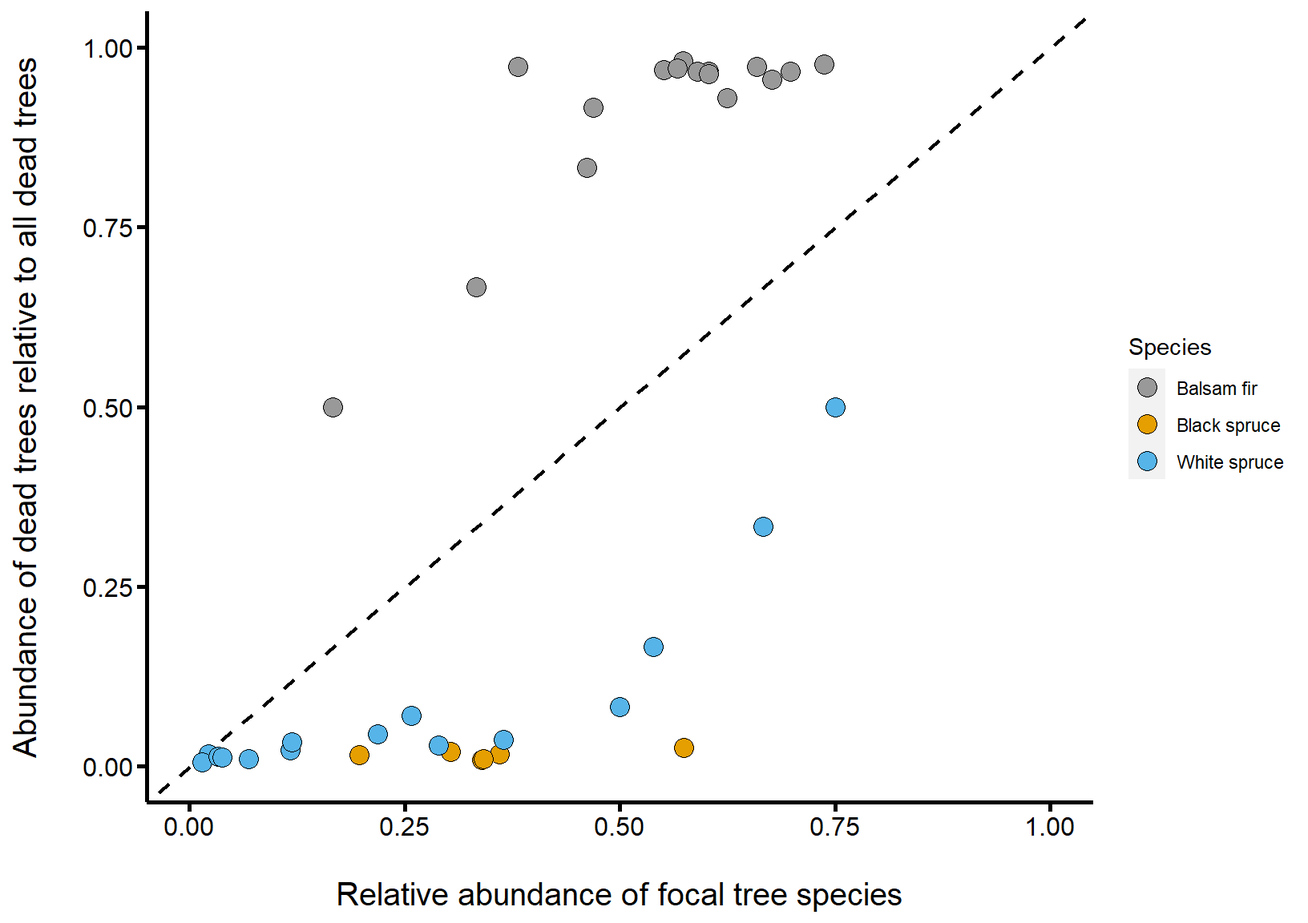
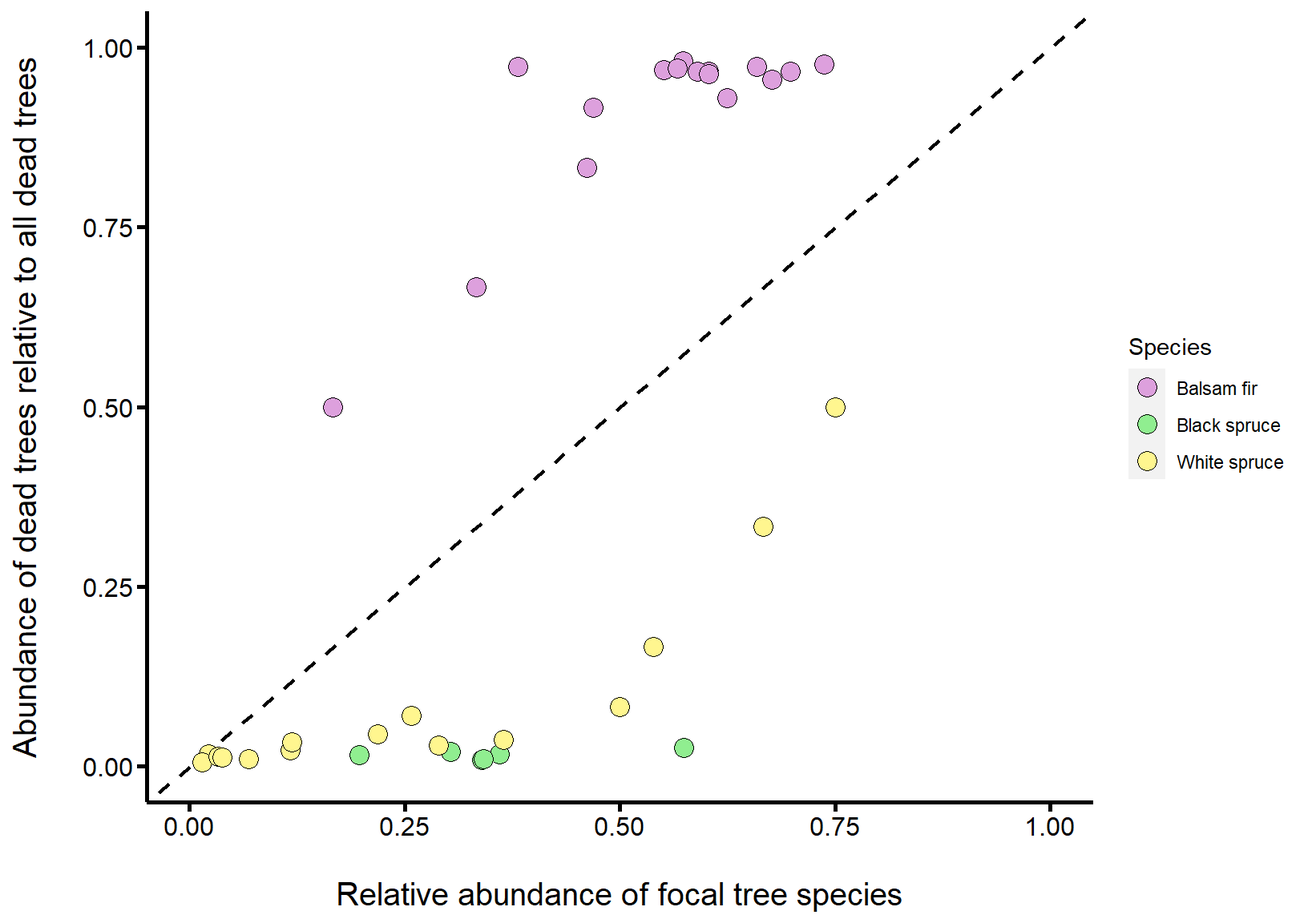
Finalize figures

diff --git a/tutorial/Anticosti_CommunityEco_Tutorial_v5.html b/tutorial/Anticosti_CommunityEco_Tutorial_v5.html
@@ -404,42 +404,59 @@ Example of a specialist and generalist species
 <h2>Tutorial objective 3</h2>
 <div id="section-is-there-a-relationship-between-the-abundance-of-tree-species-and-the-ones-the-hemlock-looper-attacks" class="section level3">
 <h3>Is there a relationship between the abundance of tree species and the ones the hemlock looper attacks?</h3>
-<div id="section-this-question-asks-us-to-consider-the-role-of-relative-abundance-in-pest-prevalence.-below-is-a-drawing-to-convey-this-idea" class="section level4">
-<h4>This question asks us to consider the role of relative abundance in pest prevalence. Below is a drawing to convey this idea</h4>
+<div id="section-this-question-asks-us-to-consider-the-role-of-relative-abundance-in-pest-prevalence.-below-is-a-comic-to-convey-this-idea" class="section level4">
+<h4>This question asks us to consider the role of relative abundance in pest prevalence. Below is a comic to convey this idea</h4>
 </div>
-<div id="section-imagine-you-are-a-hemlock-looper-about-to-lay-its-eggs.-wouldnt-it-be-most-convenient-to-lay-them-on-the-first-tree-you-find-in-this-case-the-more-abundant-a-tree-is-the-more-likely-it-is-to-be-predated-upon.-conversely-perhaps-the-looper-prefers-a-particular-tree-species-because-it-has-more-tender-leaves.-in-this-case-even-if-this-species-was-more-rare-in-the-forest-we-would-notice-it-has-more-hemlock-looper-damage-than-we-would-expect-based-on-its-relative-abundance." class="section level4">
-<h4>Imagine you are a hemlock looper about to lay its eggs. Wouldn’t it be most convenient to lay them on the first tree you find? In this case, the more abundant a tree is, the more likely it is to be predated upon. Conversely, perhaps the looper prefers a particular tree species because it has more tender leaves. In this case, even if this species was more rare in the forest, we would notice it has more hemlock looper damage than we would expect based on its relative abundance.</h4>
+<div id="section-imagine-you-are-a-hemlock-looper-about-to-lay-its-eggs.-wouldnt-it-be-most-convenient-to-lay-them-on-the-first-tree-you-find-in-this-case-the-more-abundant-a-tree-is-the-more-likely-it-is-to-be-predated-upon." class="section level4">
+<h4>Imagine you are a hemlock looper about to lay its eggs. Wouldn’t it be most convenient to lay them on the first tree you find? In this case, the more abundant a tree is, the more likely it is to be predated upon.</h4>
+</div>
+<div id="section-alternatively-perhaps-hemlock-loopers-prefer-a-particular-tree-species-because-it-has-more-tender-leaves.-in-this-case-even-if-this-species-was-more-rare-in-the-forest-we-would-notice-it-has-more-hemlock-looper-damage-than-we-would-expect-based-on-its-relative-abundance." class="section level4">
+<h4>Alternatively, perhaps hemlock loopers prefer a particular tree species because it has more tender leaves. In this case, even if this species was more rare in the forest, we would notice it has more hemlock looper damage than we would expect based on its relative abundance.</h4>
 <div class="figure" style="text-align: center">
 <img src="images/specialist_generalists.png" alt="Comic on the role of relative abundance and pest prevalence, by Victoria Marie Glynn" width="70%" />
 <p class="caption">
 Comic on the role of relative abundance and pest prevalence, by Victoria Marie Glynn
 </p>
 </div>
+<p><br></p>
 </div>
-<div id="section-we-thus-need-to-consider-the-relative-proportion-of-a-given-tree-species-as-it-relates-to-the-relative-proportion-of-trees-that-were-denoted-as-dead." class="section level4">
-<h4>We thus need to consider the <strong>relative proportion</strong> of a given tree species, as it relates to the relative proportion of trees that were denoted as “dead.”</h4>
+<div id="section-we-thus-need-to-consider-the-relative-proportion-of-a-given-tree-species-our-x-axis-or-independent-variable-as-it-relates-to-the-relative-proportion-of-trees-that-were-denoted-as-dead-our-y-axis-or-dependent-variable-which-is-proxy-for-predation-pressure." class="section level4">
+<h4>We thus need to consider the <strong>relative proportion</strong> of a given tree species, our x-axis or independent variable, as it relates to the relative proportion of trees that were denoted as “dead,” our y-axis or dependent variable, which is proxy for predation pressure.</h4>
+<p><br></p>
 </div>
 <div id="section-with-this-in-mind-we-can-create-the-following-schematic-to-predict-three-possible-scenarios" class="section level4">
 <h4>With this in mind, we can create the following schematic to predict three possible scenarios:</h4>
+<div class="figure" style="text-align: center">
+<img src="images/rel_abund.jpg" alt="Three possible scenarios regarding the hemlock loopers' predation behavior" width="70%" />
+<p class="caption">
+Three possible scenarios regarding the hemlock loopers’ predation behavior
+</p>
+</div>
+<p><br></p>
 </div>
 <div id="section-the-hemlock-looper-has-no-preference-on-what-tree-it-predates-upon-it-is-a-generalist-pest-species." class="section level4">
 <h4>(1) The hemlock looper has no preference on what tree it predates upon – it is a <strong>generalist</strong> pest species.</h4>
+<div id="section-we-would-see-this-on-our-graph-as-a-one-to-one-relationship-diagonal-black-line-where-a-tree-species-abundance-in-the-forest-is-directly-proportional-to-the-number-of-trees-from-that-species-denoted-as-dead." class="section level5">
+<h5>→ We would see this on our graph as a <strong>one-to-one relationship</strong> (diagonal black line), where a tree species’ abundance in the forest is directly proportional to the number of trees from that species denoted as “dead.”</h5>
+</div>
 </div>
 <div id="section-the-hemlock-looper-prefers-to-predate-upon-some-species-versus-others-it-is-a-specialist-pest-species." class="section level4">
 <h4>(2) The hemlock looper prefers to predate upon some species versus others – it is a <strong>specialist</strong> pest species.</h4>
+<div id="section-we-would-see-this-on-our-graph-if-a-species-points-lie-above-the-one-to-one-line-orange-triangle-as-this-means-that-more-individuals-of-a-given-tree-species-are-denoted-as-dead-relative-to-their-relative-abundance-in-the-forest." class="section level5">
+<h5>→ We would see this on our graph if a species’ points lie <strong>above the one-to-one line</strong> (orange triangle), as this means that more individuals of a given tree species are denoted as “dead” relative to their relative abundance in the forest.</h5>
+</div>
 </div>
 <div id="section-the-hemlock-looper-avoids-some-species-and-thus-these-are-less-predated-upon-it-is-a-specialist-pest-species." class="section level4">
 <h4>(3) The hemlock looper avoids some species, and thus these are less predated upon – it is a <strong>specialist</strong> pest species.</h4>
-<div class="figure" style="text-align: center">
-<img src="images/rel_abund.jpg" alt="Comic on the role of relative abundance and pest prevalence, by Victoria Marie Glynn" width="70%" />
-<p class="caption">
-Comic on the role of relative abundance and pest prevalence, by Victoria Marie Glynn
-</p>
+<div id="section-we-would-see-this-on-our-graph-if-a-species-points-lie-below-the-one-to-one-line-blue-triangle-as-this-means-that-less-individuals-of-a-given-tree-species-are-denoted-as-dead-relative-to-their-relative-abundance-in-the-forest." class="section level5">
+<h5>→ We would see this on our graph if a species’ points lie <strong>below the one-to-one line</strong> (blue triangle), as this means that less individuals of a given tree species are denoted as “dead” relative to their relative abundance in the forest.</h5>
+<p><br></p>
 </div>
 </div>
 </div>
 <div id="section-lets-plot-our-actual-data-and-see-where-the-results-lie-in-relationship-to-our-guiding-schematic-above." class="section level3">
 <h3>Let’s plot our actual data and see where the results lie, in relationship to our guiding schematic above.</h3>
+<p><br></p>
 <p>We’ll start by filtering out the “Questionable” tree status to answer our question, and calculate the total abundance of species by cell, either dead or alive. With this, we’ll be able to calculate the abundance of a focal specie relative to the abundance of all species within a cell.</p>
 <pre class="r"><code># Filter out &quot;Questionable individuals&quot;
 tree_filter &lt;- tree[Condition != &quot;Questionable&quot;,
@@ -482,7 +499,7 @@ tree_filter &lt;- tree_filter[unique_dead != 1]</code></pre>
              shape = 21,
              aes(fill = Species)) +
   scale_colour_manual(values = c(&quot;black&quot;,&quot;black&quot;, &quot;black&quot;)) +
-  scale_fill_manual(values = c(&quot;#999999&quot;,&quot;#E69F00&quot;, &quot;#56B4E9&quot;)) +
+  scale_fill_manual(values = c(&quot;plum&quot;, &quot;light green&quot;, &quot;khaki1&quot;)) +
   ylab(&quot;Abundance of dead trees relative to all dead trees\n&quot;) +
   xlab(&quot;\nRelative abundance of focal tree species&quot;) +
   scale_y_continuous(breaks = seq(0, 1, .25),
@@ -561,31 +578,31 @@ session$onSessionEnded(function() {
  
 <script type="application/shiny-prerendered" data-context="server">
 learnr:::question_prerendered_chunk(structure(list(type = "learnr_radio", label = "checkbox-a", question = structure("What tree species is the <strong>MOST<\u002fstrong> abundant in the data?", html = TRUE, class = c("html", 
-"character")), answers = list(structure(list(id = "lnr_ans_a7df889", 
+"character")), answers = list(structure(list(id = "lnr_ans_32a542", 
     option = "White birch (BOP) - *Betula papyrifera*", value = "White birch (BOP) - *Betula papyrifera*", 
     label = structure("White birch (BOP) - <em>Betula papyrifera<\u002fem>", html = TRUE, class = c("html", 
     "character")), correct = FALSE, message = NULL, type = "literal"), class = c("tutorial_question_answer", 
-"tutorial_quiz_answer")), structure(list(id = "lnr_ans_67b1f20", 
+"tutorial_quiz_answer")), structure(list(id = "lnr_ans_7c06665", 
     option = "White spruce (EPB) - *Picea glauca*", value = "White spruce (EPB) - *Picea glauca*", 
     label = structure("White spruce (EPB) - <em>Picea glauca<\u002fem>", html = TRUE, class = c("html", 
     "character")), correct = FALSE, message = NULL, type = "literal"), class = c("tutorial_question_answer", 
-"tutorial_quiz_answer")), structure(list(id = "lnr_ans_9bce18b", 
+"tutorial_quiz_answer")), structure(list(id = "lnr_ans_9a90333", 
     option = "Black spruce (EPN) - *Picea mariana*", value = "Black spruce (EPN) - *Picea mariana*", 
     label = structure("Black spruce (EPN) - <em>Picea mariana<\u002fem>", html = TRUE, class = c("html", 
     "character")), correct = FALSE, message = NULL, type = "literal"), class = c("tutorial_question_answer", 
-"tutorial_quiz_answer")), structure(list(id = "lnr_ans_e09bd4b", 
+"tutorial_quiz_answer")), structure(list(id = "lnr_ans_7dc0afe", 
     option = "American Larch (Meleze) - *Larix laricina*", value = "American Larch (Meleze) - *Larix laricina*", 
     label = structure("American Larch (Meleze) - <em>Larix laricina<\u002fem>", html = TRUE, class = c("html", 
     "character")), correct = FALSE, message = NULL, type = "literal"), class = c("tutorial_question_answer", 
-"tutorial_quiz_answer")), structure(list(id = "lnr_ans_4ee1f6e", 
+"tutorial_quiz_answer")), structure(list(id = "lnr_ans_3a548d3", 
     option = "Aspen (Peuplier) - *Populus* spp.", value = "Aspen (Peuplier) - *Populus* spp.", 
     label = structure("Aspen (Peuplier) - <em>Populus<\u002fem> spp.", html = TRUE, class = c("html", 
     "character")), correct = FALSE, message = NULL, type = "literal"), class = c("tutorial_question_answer", 
-"tutorial_quiz_answer")), structure(list(id = "lnr_ans_9708616", 
+"tutorial_quiz_answer")), structure(list(id = "lnr_ans_64621a4", 
     option = "Pine (Pin) - *Pinus* spp.", value = "Pine (Pin) - *Pinus* spp.", 
     label = structure("Pine (Pin) - <em>Pinus<\u002fem> spp.", html = TRUE, class = c("html", 
     "character")), correct = FALSE, message = NULL, type = "literal"), class = c("tutorial_question_answer", 
-"tutorial_quiz_answer")), structure(list(id = "lnr_ans_9a65cfb", 
+"tutorial_quiz_answer")), structure(list(id = "lnr_ans_15e88e2", 
     option = "Balsam fir (SAB) - *Abies balsamea*", value = "Balsam fir (SAB) - *Abies balsamea*", 
     label = structure("Balsam fir (SAB) - <em>Abies balsamea<\u002fem>", html = TRUE, class = c("html", 
     "character")), correct = TRUE, message = NULL, type = "literal"), class = c("tutorial_question_answer", 
@@ -597,37 +614,37 @@ learnr:::question_prerendered_chunk(structure(list(type = "learnr_radio", label 
 "character")), message = NULL, post_message = NULL), ids = list(
     answer = "checkbox-a-answer", question = "checkbox-a"), loading = structure("<strong>Loading:<\u002fstrong> \nWhat tree species is the <strong>MOST<\u002fstrong> abundant in the data?\n<br/><br/><br/>", html = TRUE, class = c("html", 
 "character")), random_answer_order = FALSE, allow_retry = FALSE, 
-    seed = 924253993.569611, options = list()), class = c("learnr_radio", 
+    seed = 612804113.714641, options = list()), class = c("learnr_radio", 
 "tutorial_question")), session = session)
 </script>
  
 <script type="application/shiny-prerendered" data-context="server">
 learnr:::question_prerendered_chunk(structure(list(type = "learnr_radio", label = "checkbox-b", question = structure("What tree species is the <strong>LEAST<\u002fstrong> abundant in the data?", html = TRUE, class = c("html", 
-"character")), answers = list(structure(list(id = "lnr_ans_c3569b5", 
+"character")), answers = list(structure(list(id = "lnr_ans_c28bc6c", 
     option = "White birch (BOP) - *Betula papyrifera*", value = "White birch (BOP) - *Betula papyrifera*", 
     label = structure("White birch (BOP) - <em>Betula papyrifera<\u002fem>", html = TRUE, class = c("html", 
     "character")), correct = FALSE, message = NULL, type = "literal"), class = c("tutorial_question_answer", 
-"tutorial_quiz_answer")), structure(list(id = "lnr_ans_35a3a16", 
+"tutorial_quiz_answer")), structure(list(id = "lnr_ans_424301f", 
     option = "White spruce (EPB) - *Picea glauca*", value = "White spruce (EPB) - *Picea glauca*", 
     label = structure("White spruce (EPB) - <em>Picea glauca<\u002fem>", html = TRUE, class = c("html", 
     "character")), correct = FALSE, message = NULL, type = "literal"), class = c("tutorial_question_answer", 
-"tutorial_quiz_answer")), structure(list(id = "lnr_ans_42321c2", 
+"tutorial_quiz_answer")), structure(list(id = "lnr_ans_34624db", 
     option = "Black spruce (EPN) - *Picea mariana*", value = "Black spruce (EPN) - *Picea mariana*", 
     label = structure("Black spruce (EPN) - <em>Picea mariana<\u002fem>", html = TRUE, class = c("html", 
     "character")), correct = FALSE, message = NULL, type = "literal"), class = c("tutorial_question_answer", 
-"tutorial_quiz_answer")), structure(list(id = "lnr_ans_2c9e760", 
+"tutorial_quiz_answer")), structure(list(id = "lnr_ans_e45a1b7", 
     option = "American Larch (Meleze) - *Larix laricina*", value = "American Larch (Meleze) - *Larix laricina*", 
     label = structure("American Larch (Meleze) - <em>Larix laricina<\u002fem>", html = TRUE, class = c("html", 
     "character")), correct = TRUE, message = NULL, type = "literal"), class = c("tutorial_question_answer", 
-"tutorial_quiz_answer")), structure(list(id = "lnr_ans_646409d", 
+"tutorial_quiz_answer")), structure(list(id = "lnr_ans_a91b6e0", 
     option = "Aspen (Peuplier) - *Populus* spp.", value = "Aspen (Peuplier) - *Populus* spp.", 
     label = structure("Aspen (Peuplier) - <em>Populus<\u002fem> spp.", html = TRUE, class = c("html", 
     "character")), correct = FALSE, message = NULL, type = "literal"), class = c("tutorial_question_answer", 
-"tutorial_quiz_answer")), structure(list(id = "lnr_ans_be2c7e2", 
+"tutorial_quiz_answer")), structure(list(id = "lnr_ans_26176a7", 
     option = "Pine (Pin) - *Pinus* spp.", value = "Pine (Pin) - *Pinus* spp.", 
     label = structure("Pine (Pin) - <em>Pinus<\u002fem> spp.", html = TRUE, class = c("html", 
     "character")), correct = FALSE, message = NULL, type = "literal"), class = c("tutorial_question_answer", 
-"tutorial_quiz_answer")), structure(list(id = "lnr_ans_e5671e7", 
+"tutorial_quiz_answer")), structure(list(id = "lnr_ans_c519680", 
     option = "Balsam fir (SAB) - *Abies balsamea*", value = "Balsam fir (SAB) - *Abies balsamea*", 
     label = structure("Balsam fir (SAB) - <em>Abies balsamea<\u002fem>", html = TRUE, class = c("html", 
     "character")), correct = FALSE, message = NULL, type = "literal"), class = c("tutorial_question_answer", 
@@ -639,37 +656,37 @@ learnr:::question_prerendered_chunk(structure(list(type = "learnr_radio", label 
 "character")), message = NULL, post_message = NULL), ids = list(
     answer = "checkbox-b-answer", question = "checkbox-b"), loading = structure("<strong>Loading:<\u002fstrong> \nWhat tree species is the <strong>LEAST<\u002fstrong> abundant in the data?\n<br/><br/><br/>", html = TRUE, class = c("html", 
 "character")), random_answer_order = FALSE, allow_retry = FALSE, 
-    seed = 1272805926.9073, options = list()), class = c("learnr_radio", 
+    seed = 372446746.826566, options = list()), class = c("learnr_radio", 
 "tutorial_question")), session = session)
 </script>
  
 <script type="application/shiny-prerendered" data-context="server">
 learnr:::question_prerendered_chunk(structure(list(type = "learnr_radio", label = "checkbox-c", question = structure("What tree species was <strong>MOST<\u002fstrong> affected by the hemlock looper? Select all that apply.", html = TRUE, class = c("html", 
-"character")), answers = list(structure(list(id = "lnr_ans_55ed505", 
+"character")), answers = list(structure(list(id = "lnr_ans_72ade62", 
     option = "White birch (BOP) - *Betula papyrifera*", value = "White birch (BOP) - *Betula papyrifera*", 
     label = structure("White birch (BOP) - <em>Betula papyrifera<\u002fem>", html = TRUE, class = c("html", 
     "character")), correct = FALSE, message = NULL, type = "literal"), class = c("tutorial_question_answer", 
-"tutorial_quiz_answer")), structure(list(id = "lnr_ans_a329c00", 
+"tutorial_quiz_answer")), structure(list(id = "lnr_ans_cdb2f39", 
     option = "White spruce (EPB) - *Picea glauca*", value = "White spruce (EPB) - *Picea glauca*", 
     label = structure("White spruce (EPB) - <em>Picea glauca<\u002fem>", html = TRUE, class = c("html", 
     "character")), correct = FALSE, message = NULL, type = "literal"), class = c("tutorial_question_answer", 
-"tutorial_quiz_answer")), structure(list(id = "lnr_ans_e139bbc", 
+"tutorial_quiz_answer")), structure(list(id = "lnr_ans_1bc437b", 
     option = "Black spruce (EPN) - *Picea mariana*", value = "Black spruce (EPN) - *Picea mariana*", 
     label = structure("Black spruce (EPN) - <em>Picea mariana<\u002fem>", html = TRUE, class = c("html", 
     "character")), correct = FALSE, message = NULL, type = "literal"), class = c("tutorial_question_answer", 
-"tutorial_quiz_answer")), structure(list(id = "lnr_ans_447ecbf", 
+"tutorial_quiz_answer")), structure(list(id = "lnr_ans_bfc53d5", 
     option = "Larch (Meleze) - *Larix* spp.", value = "Larch (Meleze) - *Larix* spp.", 
     label = structure("Larch (Meleze) - <em>Larix<\u002fem> spp.", html = TRUE, class = c("html", 
     "character")), correct = FALSE, message = NULL, type = "literal"), class = c("tutorial_question_answer", 
-"tutorial_quiz_answer")), structure(list(id = "lnr_ans_6502f10", 
+"tutorial_quiz_answer")), structure(list(id = "lnr_ans_7e24e78", 
     option = "Aspen (Peuplier) - *Populus* spp.", value = "Aspen (Peuplier) - *Populus* spp.", 
     label = structure("Aspen (Peuplier) - <em>Populus<\u002fem> spp.", html = TRUE, class = c("html", 
     "character")), correct = FALSE, message = NULL, type = "literal"), class = c("tutorial_question_answer", 
-"tutorial_quiz_answer")), structure(list(id = "lnr_ans_d5b5e97", 
+"tutorial_quiz_answer")), structure(list(id = "lnr_ans_bdbc282", 
     option = "Pine (Pin) - *Pinus* spp.", value = "Pine (Pin) - *Pinus* spp.", 
     label = structure("Pine (Pin) - <em>Pinus<\u002fem> spp.", html = TRUE, class = c("html", 
     "character")), correct = FALSE, message = NULL, type = "literal"), class = c("tutorial_question_answer", 
-"tutorial_quiz_answer")), structure(list(id = "lnr_ans_ff539e3", 
+"tutorial_quiz_answer")), structure(list(id = "lnr_ans_945a260", 
     option = "Balsam fir (SAB) - *Abies balsamea*", value = "Balsam fir (SAB) - *Abies balsamea*", 
     label = structure("Balsam fir (SAB) - <em>Abies balsamea<\u002fem>", html = TRUE, class = c("html", 
     "character")), correct = TRUE, message = NULL, type = "literal"), class = c("tutorial_question_answer", 
@@ -681,38 +698,38 @@ learnr:::question_prerendered_chunk(structure(list(type = "learnr_radio", label 
 "character")), message = NULL, post_message = NULL), ids = list(
     answer = "checkbox-c-answer", question = "checkbox-c"), loading = structure("<strong>Loading:<\u002fstrong> \nWhat tree species was <strong>MOST<\u002fstrong> affected by the hemlock looper? Select all that apply.\n<br/><br/><br/>", html = TRUE, class = c("html", 
 "character")), random_answer_order = FALSE, allow_retry = FALSE, 
-    seed = 270811961.873893, options = list()), class = c("learnr_radio", 
+    seed = 1906606332.11217, options = list()), class = c("learnr_radio", 
 "tutorial_question")), session = session)
 </script>
  
 <script type="application/shiny-prerendered" data-context="server">
 learnr:::question_prerendered_chunk(structure(list(type = "learnr_checkbox", label = "checkbox-d", 
     question = structure("What tree species was <strong>LEAST<\u002fstrong> affected by the hemlock looper? Select all that apply.", html = TRUE, class = c("html", 
-    "character")), answers = list(structure(list(id = "lnr_ans_a8faa03", 
+    "character")), answers = list(structure(list(id = "lnr_ans_677980e", 
         option = "White birch (BOP) - *Betula papyrifera*", value = "White birch (BOP) - *Betula papyrifera*", 
         label = structure("White birch (BOP) - <em>Betula papyrifera<\u002fem>", html = TRUE, class = c("html", 
         "character")), correct = FALSE, message = NULL, type = "literal"), class = c("tutorial_question_answer", 
-    "tutorial_quiz_answer")), structure(list(id = "lnr_ans_ab5b28", 
+    "tutorial_quiz_answer")), structure(list(id = "lnr_ans_6e33b4", 
         option = "White spruce (EPB) - *Picea glauca*", value = "White spruce (EPB) - *Picea glauca*", 
         label = structure("White spruce (EPB) - <em>Picea glauca<\u002fem>", html = TRUE, class = c("html", 
         "character")), correct = FALSE, message = NULL, type = "literal"), class = c("tutorial_question_answer", 
-    "tutorial_quiz_answer")), structure(list(id = "lnr_ans_6ad37d2", 
+    "tutorial_quiz_answer")), structure(list(id = "lnr_ans_b9014d0", 
         option = "Black spruce (EPN) - *Picea mariana*", value = "Black spruce (EPN) - *Picea mariana*", 
         label = structure("Black spruce (EPN) - <em>Picea mariana<\u002fem>", html = TRUE, class = c("html", 
         "character")), correct = FALSE, message = NULL, type = "literal"), class = c("tutorial_question_answer", 
-    "tutorial_quiz_answer")), structure(list(id = "lnr_ans_89ee394", 
+    "tutorial_quiz_answer")), structure(list(id = "lnr_ans_3dbd7c9", 
         option = "Larch (Meleze) - *Larix* spp.", value = "Larch (Meleze) - *Larix* spp.", 
         label = structure("Larch (Meleze) - <em>Larix<\u002fem> spp.", html = TRUE, class = c("html", 
         "character")), correct = TRUE, message = NULL, type = "literal"), class = c("tutorial_question_answer", 
-    "tutorial_quiz_answer")), structure(list(id = "lnr_ans_ceb4e2a", 
+    "tutorial_quiz_answer")), structure(list(id = "lnr_ans_33af917", 
         option = "Aspen (Peuplier) - *Populus* spp.", value = "Aspen (Peuplier) - *Populus* spp.", 
         label = structure("Aspen (Peuplier) - <em>Populus<\u002fem> spp.", html = TRUE, class = c("html", 
         "character")), correct = TRUE, message = NULL, type = "literal"), class = c("tutorial_question_answer", 
-    "tutorial_quiz_answer")), structure(list(id = "lnr_ans_71a8f9c", 
+    "tutorial_quiz_answer")), structure(list(id = "lnr_ans_1b8708e", 
         option = "Pine (Pin) - *Pinus* spp.", value = "Pine (Pin) - *Pinus* spp.", 
         label = structure("Pine (Pin) - <em>Pinus<\u002fem> spp.", html = TRUE, class = c("html", 
         "character")), correct = TRUE, message = NULL, type = "literal"), class = c("tutorial_question_answer", 
-    "tutorial_quiz_answer")), structure(list(id = "lnr_ans_647e2cb", 
+    "tutorial_quiz_answer")), structure(list(id = "lnr_ans_9b25c6", 
         option = "Balsam fir (SAB) - *Abies balsamea*", value = "Balsam fir (SAB) - *Abies balsamea*", 
         label = structure("Balsam fir (SAB) - <em>Abies balsamea<\u002fem>", html = TRUE, class = c("html", 
         "character")), correct = FALSE, message = NULL, type = "literal"), class = c("tutorial_question_answer", 
@@ -725,28 +742,28 @@ learnr:::question_prerendered_chunk(structure(list(type = "learnr_checkbox", lab
         answer = "checkbox-d-answer", question = "checkbox-d"), 
     loading = structure("<strong>Loading:<\u002fstrong> \nWhat tree species was <strong>LEAST<\u002fstrong> affected by the hemlock looper? Select all that apply.\n<br/><br/><br/>", html = TRUE, class = c("html", 
     "character")), random_answer_order = FALSE, allow_retry = FALSE, 
-    seed = 1372999991.86065, options = list()), class = c("learnr_checkbox", 
+    seed = 1395521098.85016, options = list()), class = c("learnr_checkbox", 
 "tutorial_question")), session = session)
 </script>
  
 <script type="application/shiny-prerendered" data-context="server">
 learnr:::question_prerendered_chunk(structure(list(type = "learnr_radio", label = "letterx-d", question = structure("Do hemlock loopers preferentially attack a given tree species?", html = TRUE, class = c("html", 
-"character")), answers = list(structure(list(id = "lnr_ans_5797969", 
+"character")), answers = list(structure(list(id = "lnr_ans_ea26d63", 
     option = "**Yes**, hemlock loopers preferentially attack **balsam fir trees** because there are proportionally more dead trees of this species relative to their overall abundance in the forest", 
     value = "**Yes**, hemlock loopers preferentially attack **balsam fir trees** because there are proportionally more dead trees of this species relative to their overall abundance in the forest", 
     label = structure("<strong>Yes<\u002fstrong>, hemlock loopers preferentially attack <strong>balsam fir trees<\u002fstrong> because there are proportionally more dead trees of this species relative to their overall abundance in the forest", html = TRUE, class = c("html", 
     "character")), correct = TRUE, message = NULL, type = "literal"), class = c("tutorial_question_answer", 
-"tutorial_quiz_answer")), structure(list(id = "lnr_ans_132943d", 
+"tutorial_quiz_answer")), structure(list(id = "lnr_ans_3f2a4a4", 
     option = "**Yes**, hemlock loopers preferentially attack **white spruce trees** because there are proportionally less dead trees of this species relative to their overall abundance in the forest", 
     value = "**Yes**, hemlock loopers preferentially attack **white spruce trees** because there are proportionally less dead trees of this species relative to their overall abundance in the forest", 
     label = structure("<strong>Yes<\u002fstrong>, hemlock loopers preferentially attack <strong>white spruce trees<\u002fstrong> because there are proportionally less dead trees of this species relative to their overall abundance in the forest", html = TRUE, class = c("html", 
     "character")), correct = FALSE, message = NULL, type = "literal"), class = c("tutorial_question_answer", 
-"tutorial_quiz_answer")), structure(list(id = "lnr_ans_5a290b6", 
+"tutorial_quiz_answer")), structure(list(id = "lnr_ans_8a96bdb", 
     option = "**No**, the relative abundance of dead trees for each species is directly proportional to their overall abundance in the forest", 
     value = "**No**, the relative abundance of dead trees for each species is directly proportional to their overall abundance in the forest", 
     label = structure("<strong>No<\u002fstrong>, the relative abundance of dead trees for each species is directly proportional to their overall abundance in the forest", html = TRUE, class = c("html", 
     "character")), correct = FALSE, message = NULL, type = "literal"), class = c("tutorial_question_answer", 
-"tutorial_quiz_answer")), structure(list(id = "lnr_ans_5ad7502", 
+"tutorial_quiz_answer")), structure(list(id = "lnr_ans_3d77ba", 
     option = "I am not sure, I would need more data", value = "I am not sure, I would need more data", 
     label = structure("I am not sure, I would need more data", html = TRUE, class = c("html", 
     "character")), correct = FALSE, message = NULL, type = "literal"), class = c("tutorial_question_answer", 
@@ -758,7 +775,7 @@ learnr:::question_prerendered_chunk(structure(list(type = "learnr_radio", label 
 "character")), message = NULL, post_message = NULL), ids = list(
     answer = "letterx-d-answer", question = "letterx-d"), loading = structure("<strong>Loading:<\u002fstrong> \nDo hemlock loopers preferentially attack a given tree species?\n<br/><br/><br/>", html = TRUE, class = c("html", 
 "character")), random_answer_order = FALSE, allow_retry = FALSE, 
-    seed = 1212551549.43536, options = list()), class = c("learnr_radio", 
+    seed = 2082931926.53006, options = list()), class = c("learnr_radio", 
 "tutorial_question")), session = session)
 </script>
  <!--html_preserve-->
